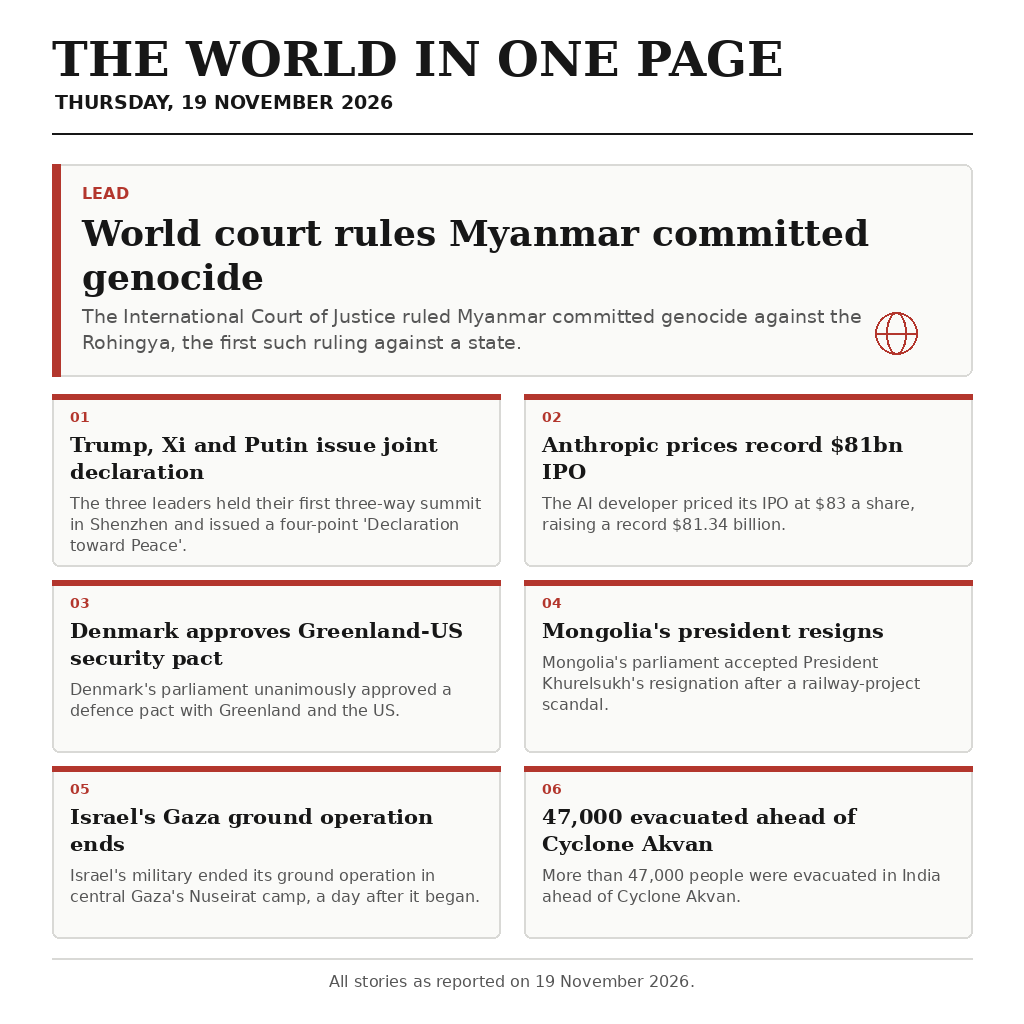
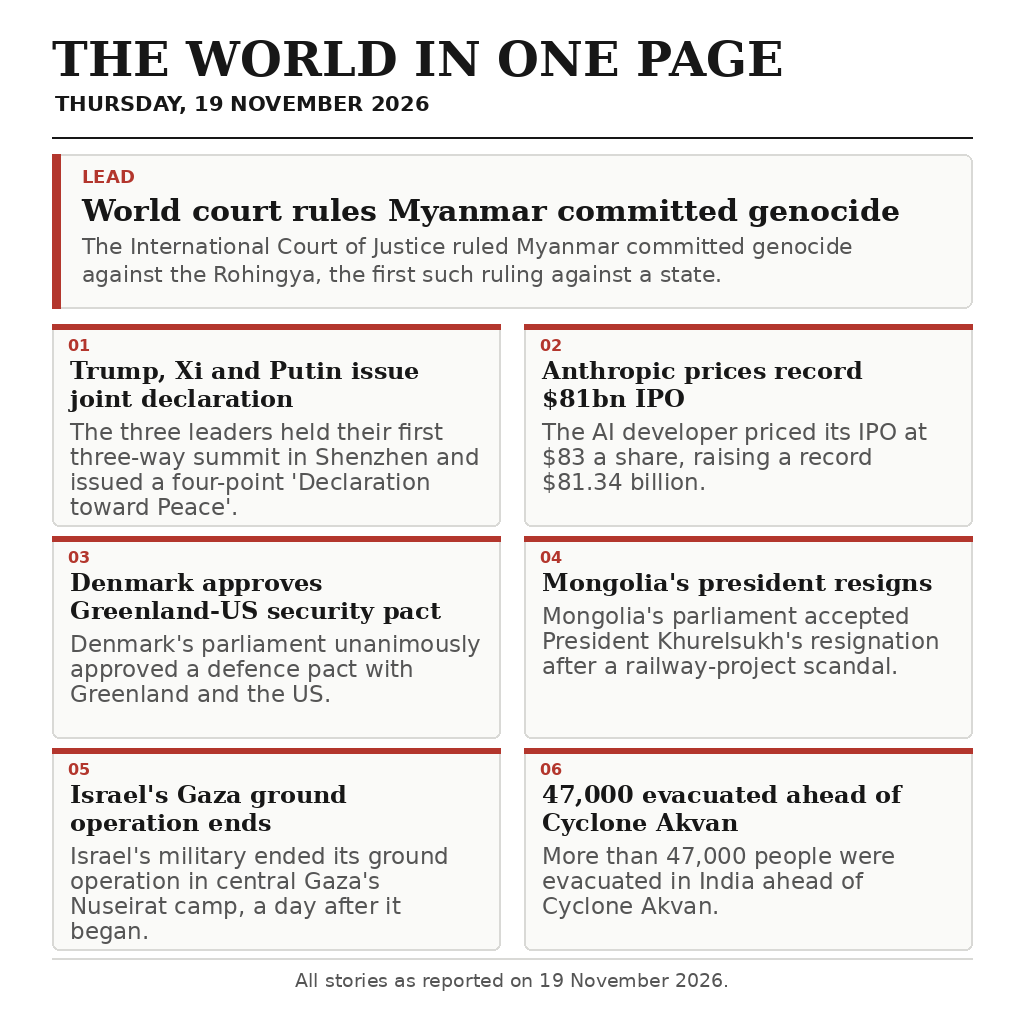
Enlarge story typography for legibility at judge size

Changed region(s): [[0.0312, 0.0938, 0.9688, 0.9688]]

diff --git a/render.py b/render.py
@@ -47,26 +47,19 @@ def draw_wrapped(draw, text, xy, face, fill, width, leading):
 
 
 def draw_lead(draw):
-    x, y, w, h = 52, 164, 920, 212
+    x, y, w, h = 52, 154, 920, 154
     draw.rounded_rectangle((x, y, x + w, y + h), radius=8, fill=PANEL, outline=RULE, width=2)
     draw.rectangle((x, y, x + 8, y + h), fill=ACCENT)
-    draw.text((x + 30, y + 20), "LEAD", font=font(SANS_BOLD, 16), fill=ACCENT)
+    draw.text((x + 30, y + 12), "LEAD", font=font(SANS_BOLD, 18), fill=ACCENT)
 
     title = "World court rules Myanmar committed genocide"
-    title_face = font(SERIF_BOLD, 36)
-    title_bottom = draw_wrapped(draw, title, (x + 30, y + 48), title_face, INK, 850, 44)
+    title_face = font(SERIF_BOLD, 30)
+    title_bottom = draw_wrapped(draw, title, (x + 30, y + 38), title_face, INK, 850, 38)
     body = (
         "The International Court of Justice ruled Myanmar committed genocide against "
         "the Rohingya, the first such ruling against a state."
     )
-    draw_wrapped(draw, body, (x + 30, title_bottom + 5), font(SANS, 19), MUTED, 850, 26)
-
-    # A restrained globe-and-courthouse emblem, drawn entirely from vector shapes.
-    cx, cy = x + w - 76, y + h - 43
-    draw.ellipse((cx - 21, cy - 21, cx + 21, cy + 21), outline=ACCENT, width=2)
-    draw.arc((cx - 10, cy - 21, cx + 10, cy + 21), 80, 280, fill=ACCENT, width=2)
-    draw.arc((cx - 10, cy - 21, cx + 10, cy + 21), 260, 100, fill=ACCENT, width=2)
-    draw.line((cx - 19, cy, cx + 19, cy), fill=ACCENT, width=2)
+    draw_wrapped(draw, body, (x + 30, title_bottom + 3), font(SANS, 22), MUTED, 850, 28)
 
 
 STORIES = [
@@ -100,19 +93,21 @@ STORIES = [
 def draw_story(draw, x, y, w, h, number, title, body):
     draw.rounded_rectangle((x, y, x + w, y + h), radius=7, fill=PANEL, outline=RULE, width=2)
     draw.rectangle((x, y, x + w, y + 5), fill=ACCENT)
-    draw.text((x + 18, y + 15), f"{number:02d}", font=font(SANS_BOLD, 14), fill=ACCENT)
+    draw.text((x + 16, y + 12), f"{number:02d}", font=font(SANS_BOLD, 16), fill=ACCENT)
 
-    title_face = font(SERIF_BOLD, 21)
-    title_bottom = draw_wrapped(draw, title, (x + 18, y + 38), title_face, INK, w - 36, 27)
-    draw_wrapped(
+    title_face = font(SERIF_BOLD, 24)
+    title_bottom = draw_wrapped(draw, title, (x + 18, y + 32), title_face, INK, w - 36, 28)
+    body_bottom = draw_wrapped(
         draw,
         body,
-        (x + 18, title_bottom + 8),
-        font(SANS, 16),
+        (x + 18, title_bottom + 6),
+        font(SANS, 23),
         MUTED,
         w - 36,
-        21,
+        25,
     )
+    if body_bottom > y + h - 8:
+        raise ValueError(f"Story {number} text exceeds its panel")
 
 
 def main():
@@ -123,22 +118,21 @@ def main():
     draw.text(
         (55, 91),
         "THURSDAY, 19 NOVEMBER 2026",
-        font=font(SANS_BOLD, 19),
+        font=font(SANS_BOLD, 21),
         fill=INK,
     )
-    draw.line((52, 133, 972, 133), fill=INK, width=2)
+    draw.line((52, 137, 972, 137), fill=INK, width=2)
 
     draw_lead(draw)
 
-    left, right = 52, 524
-    card_w, card_h, gap_y = 448, 172, 14
-    first_y = 394
+    card_w, card_h, gap_x, gap_y = 448, 202, 24, 10
+    first_x, first_y = 52, 324
     for index, (title, body) in enumerate(STORIES):
         col = index % 2
         row = index // 2
         draw_story(
             draw,
-            left if col == 0 else right,
+            first_x + col * (card_w + gap_x),
             first_y + row * (card_h + gap_y),
             card_w,
             card_h,
@@ -149,9 +143,9 @@ def main():
 
     draw.line((52, 958, 972, 958), fill=RULE, width=2)
     footer = "All stories as reported on 19 November 2026."
-    footer_face = font(SANS, 16)
+    footer_face = font(SANS, 19)
     footer_width = draw.textbbox((0, 0), footer, font=footer_face)[2]
-    draw.text(((SIZE - footer_width) // 2, 972), footer, font=footer_face, fill=MUTED)
+    draw.text(((SIZE - footer_width) // 2, 969), footer, font=footer_face, fill=MUTED)
 
     image.save(Path(__file__).with_name("entry.png"), format="PNG", optimize=True)
 
